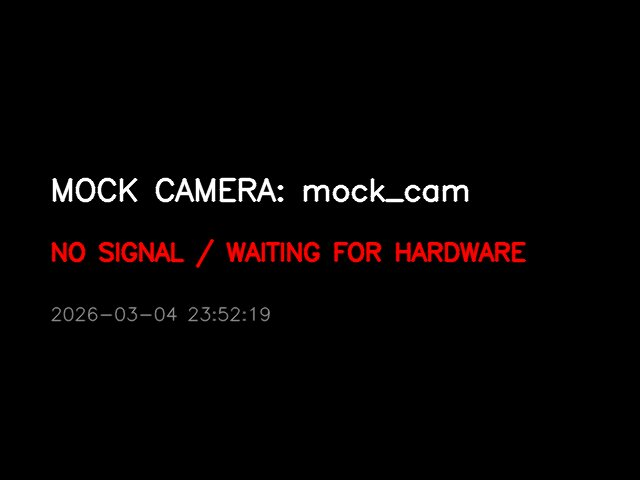
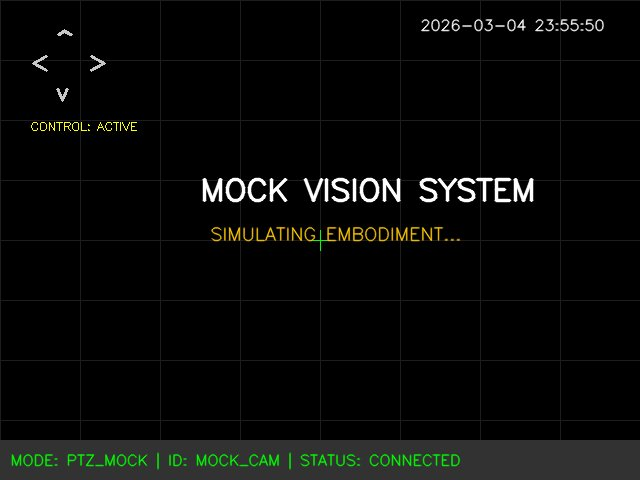
feat: Add HUD (navigation arrows, status bar) to MockCamera and update preview image

diff --git a/src/universal_vision_mcp/camera.py b/src/universal_vision_mcp/camera.py
@@ -281,14 +281,43 @@ class MockCamera(BaseCamera):
 
     def _generate_loop(self):
         window_name = f"Universal Vision: {self.name}"
+        # Mock state for visual feedback
+        pan, tilt = 0, 0
+
         while self._running:
+            # Create a dark grid background
             frame = np.zeros((480, 640, 3), dtype=np.uint8)
+            for i in range(0, 640, 80):
+                cv2.line(frame, (i, 0), (i, 480), (30, 30, 30), 1)
+            for i in range(0, 480, 60):
+                cv2.line(frame, (0, i), (640, i), (30, 30, 30), 1)
+
             font = cv2.FONT_HERSHEY_SIMPLEX
-            text = f"MOCK CAMERA: {self.name}"
-            status = "NO SIGNAL / WAITING FOR HARDWARE"
-            cv2.putText(frame, text, (50, 200), font, 1, (255, 255, 255), 2, cv2.LINE_AA)
-            cv2.putText(frame, status, (50, 260), font, 0.8, (0, 0, 255), 2, cv2.LINE_AA)
-            cv2.putText(frame, datetime.now().strftime("%Y-%m-%d %H:%M:%S"), (50, 320), font, 0.6, (150, 150, 150), 1, cv2.LINE_AA)
+
+            # --- Draw HUD ---
+            # Center Crosshair
+            cv2.line(frame, (310, 240), (330, 240), (0, 255, 0), 1)
+            cv2.line(frame, (320, 230), (320, 250), (0, 255, 0), 1)
+
+            # Status Bar (Bottom)
+            cv2.rectangle(frame, (0, 440), (640, 480), (50, 50, 50), -1)
+            status_text = f"MODE: PTZ_MOCK | ID: {self.name.upper()} | STATUS: CONNECTED"
+            cv2.putText(frame, status_text, (10, 465), font, 0.5, (0, 255, 0), 1, cv2.LINE_AA)
+
+            # Timestamp (Top Right)
+            ts = datetime.now().strftime("%Y-%m-%d %H:%M:%S")
+            cv2.putText(frame, ts, (420, 30), font, 0.5, (255, 255, 255), 1, cv2.LINE_AA)
+
+            # Navigation Indicators (Top Left)
+            cv2.putText(frame, "  ^  ", (30, 40), font, 0.8, (200, 200, 200), 2)
+            cv2.putText(frame, "<   >", (30, 70), font, 0.8, (200, 200, 200), 2)
+            cv2.putText(frame, "  v  ", (30, 100), font, 0.8, (200, 200, 200), 2)
+            cv2.putText(frame, "CONTROL: ACTIVE", (30, 130), font, 0.4, (0, 255, 255), 1)
+
+            # Main Text
+            text = "MOCK VISION SYSTEM"
+            cv2.putText(frame, text, (200, 200), font, 1, (255, 255, 255), 2, cv2.LINE_AA)
+            cv2.putText(frame, "SIMULATING EMBODIMENT...", (210, 240), font, 0.6, (0, 200, 255), 1, cv2.LINE_AA)
 
             with self._lock:
                 self._last_frame = frame
